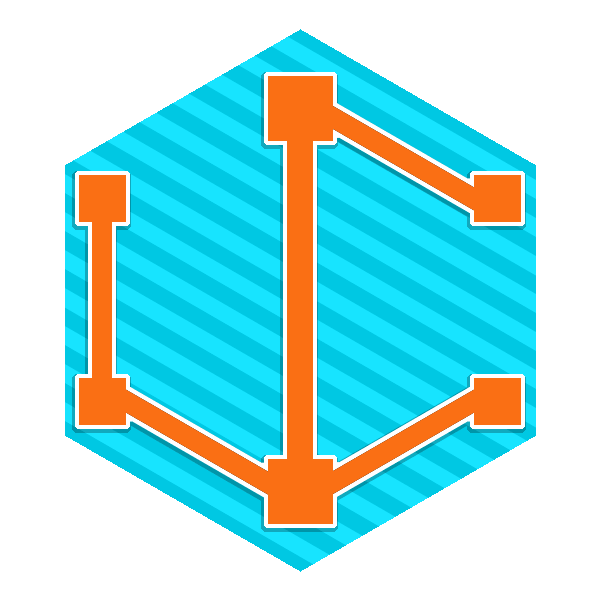
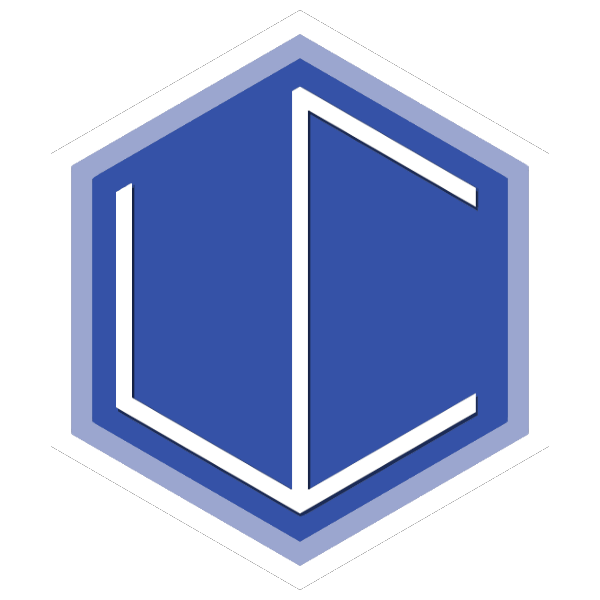
New coat of paint for Fall 2018

diff --git a/lib/client/sass/master.scss b/lib/client/sass/master.scss
@@ -1,11 +1,12 @@
 $body-font-size: 22px;
 $line-height: 1.5;
+$header-font-family: 'Josefin Sans', sans-serif;
 $body-font-family: 'Lato', sans-serif;
 
 $body-background-color: #f9f9f9;
-$blue-light: #17e4ff;
-$blue-dark: #67cbec;
-$orange: #fa6f14;
+$blue-light: #9ba6cf;
+$blue-dark: #3552a7;
+$orange: #9ba6cf;
 $white: #ffffff;
 
 $padding: 20px;

diff --git a/lib/client/sass/components/_button.scss b/lib/client/sass/components/_button.scss
@@ -29,7 +29,7 @@
 
   &.button--registration-notify {
     float: right;
-    margin-top: -6px;
+    margin-top: -15px;
 
     @media (max-width: $mobile-breakpoint) {
       float: none;

diff --git a/lib/client/sass/components/_header.scss b/lib/client/sass/components/_header.scss
@@ -27,6 +27,7 @@ header > .header-content > img {
   height: 40px;
   width: 40px;
   margin-right: 5px;
+  margin-bottom: 5px;
   vertical-align: middle;
 }
 

diff --git a/lib/client/sass/type/_headings.scss b/lib/client/sass/type/_headings.scss
@@ -5,7 +5,7 @@ h4,
 h5,
 h6,
 nav * {
-  font-family: 'Jockey One', sans-serif;
+  font-family: $header-font-family;
   font-weight: 100;
 }
 
